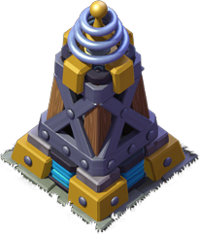
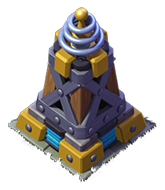
Actualizo algunas img de tower

diff --git a/TowerWenner.cpp b/TowerWenner.cpp
@@ -51,7 +51,7 @@ void TowerWenner::upgrade()
 	case 1:
 	{
 		_name = "Torre WENNER";
-		if (!_texture.loadFromFile("img/towers/torreb_4.png")) {
+		if (!_texture.loadFromFile("img/towers/torreb_5.png")) {
 			throw std::runtime_error("Error img tower MAXI WENNER");
 		}
 		_sprite.setTexture(_texture);

diff --git a/TowerBrian.cpp b/TowerBrian.cpp
@@ -54,7 +54,7 @@ void TowerBrian::upgrade()
 	case 1:
 	{
 		_name = "Torre BRIAN";
-		if (!_texture.loadFromFile("img/towers/torreA_5.png")) {
+		if (!_texture.loadFromFile("img/towers/torreA_3.png")) {
 			throw std::runtime_error("Error img tower Labo3 BRIAN");
 		}
 		_sprite.setTexture(_texture);

diff --git a/main.cpp b/main.cpp
@@ -16,7 +16,7 @@ int main()
 	}
 	// Establecer el icono de la ventana
 	window.setIcon(icon.getSize().x, icon.getSize().y, icon.getPixelsPtr());
-	int view = 2;
+	int view = 1;
 	sf::Vector2i mousePosition; //xq no es 2f? si despues lo terminamos pasando a 2f siempre...
 	while (window.isOpen())
 	{

diff --git a/Level1.cpp b/Level1.cpp
@@ -143,7 +143,7 @@ Level1::Level1()
 
 	setSpots(arr, _spots, 5);
 	_golden = 2000;
-	_energy = 99999;
+	_energy = 500;
 	_ui.setText(0, std::to_string(getGolden()));
 	_ui.setText(1, std::to_string(getEnergy()));
 
